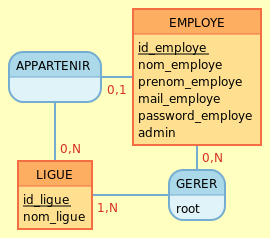
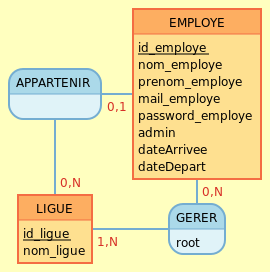
Mise à jour MCD dates

Changed region(s): [[0.0296, 0.0294, 0.9778, 0.9706]]

diff --git a/MCD/tuto-0011_mld.html b/MCD/tuto-0011_mld.html
@@ -9,11 +9,13 @@
     <span class='normal'>mail_employe</span>,
     <span class='normal'>password_employe</span>,
     <span class='normal'>admin</span>,
+    <span class='normal'>dateArrivee</span>,
+    <span class='normal'>dateDepart</span>,
     <span class='foreign'>#id_ligue</span>
   )</summary>
   <ul>
     <li>Le champ <i>id_employe</i> constitue la clé primaire de la table. C'était déjà un identifiant de l'entité <i>EMPLOYE</i>.</li>
-    <li>Les champs <i>nom_employe</i>, <i>prenom_employe</i>, <i>mail_employe</i>, <i>password_employe</i> et <i>admin</i> étaient déjà de simples attributs de l'entité <i>EMPLOYE</i>.</li>
+    <li>Les champs <i>nom_employe</i>, <i>prenom_employe</i>, <i>mail_employe</i>, <i>password_employe</i>, <i>admin</i>, <i>dateArrivee</i> et <i>dateDepart</i> étaient déjà de simples attributs de l'entité <i>EMPLOYE</i>.</li>
     <li>Le champ <i>id_ligue</i> est une clé étrangère. Il a migré par l'association de dépendance fonctionnelle <i>APPARTENIR</i> à partir de l'entité <i>LIGUE</i> en perdant son caractère identifiant.</li>
   </ul></details>
 </div>
